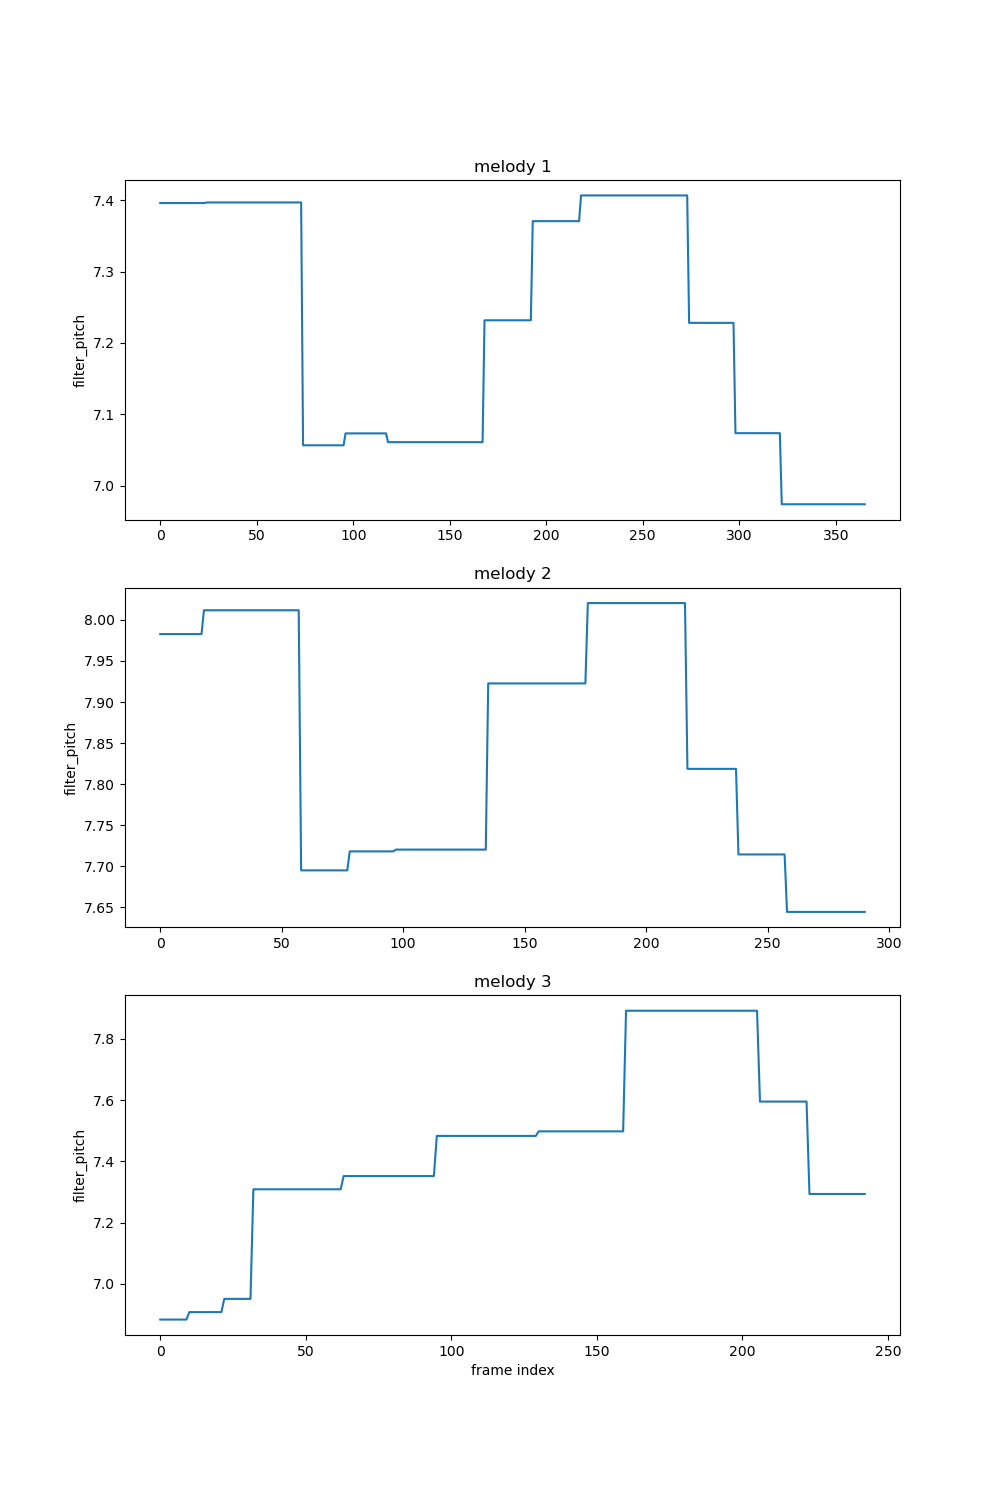
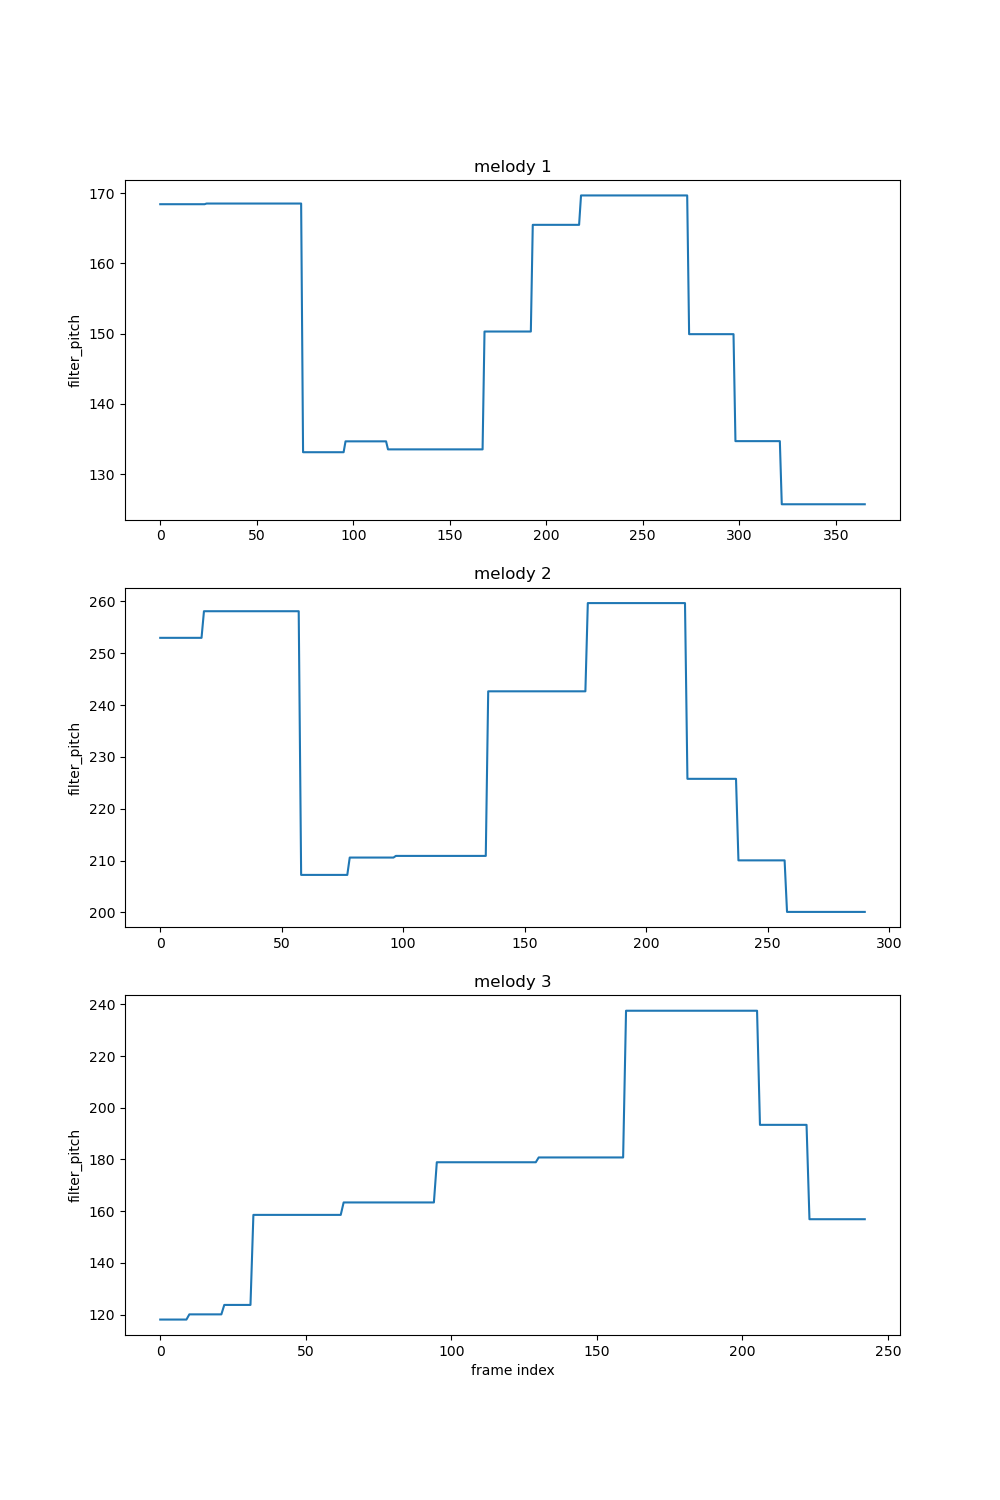
.

diff --git a/assignment2/main.py b/assignment2/main.py
@@ -2,7 +2,7 @@ from matplotlib import pyplot as plt
 import numpy as np
 from scipy.io import wavfile
 import GetMusicFeatures
-from Feature_Extractor import normalized_intensity, filter_pitch, semi_adjust
+from Feature_Extractor import normalized_intensity, filter_pitch, semi_adjust, analysis_note
 import os
 import simpleaudio as sa
 import wave
@@ -92,7 +92,7 @@ frequence3 = np.arange(0,frame_num3)
 
 # print(frIsequence1.shape,type(frIsequence1),'dimension of frIsequence')
 # print(frIsequence1[:,0:5],'print the first five frames')
-# ----------------------------------------------------
+# -------------------------------------------------------------
 
 # plot the pitch
 # \todo look at the frequency range 100–300 Hz especially
@@ -199,7 +199,7 @@ plt.ylabel('Normalized intensity')
 plt.title('melody 3')
 plt.savefig('figures/normalized intensity.png')
 plt.show()
-# ----------------------------------------------------
+# ---------------------------------------------------------------------------------------------data
 
 filter_pitch1, filter_pitch1_log = filter_pitch(frIsequence1)
 # print(filter_pitch1_log)
@@ -220,17 +220,17 @@ frequence3_temp = np.arange(0, voice_frame_num3)
 
 plt.figure(7, figsize=[10,15])
 plt.subplot(3, 1, 1)
-plt.plot(frequence1_temp, filter_pitch1_log)
+plt.plot(frequence1_temp, filter_pitch1)
 plt.ylabel('filter_pitch')
 plt.title('melody 1')
 
 plt.subplot(3, 1, 2)
-plt.plot(frequence2_temp, filter_pitch2_log)
+plt.plot(frequence2_temp, filter_pitch2)
 plt.ylabel('filter_pitch')
 plt.title('melody 2')
 
 plt.subplot(3, 1, 3)
-plt.plot(frequence3_temp, filter_pitch3_log)
+plt.plot(frequence3_temp, filter_pitch3)
 plt.xlabel('frame index')
 plt.ylabel('filter_pitch')
 plt.title('melody 3')
@@ -240,46 +240,19 @@ plt.show()
 #
 # analysis the semitones of melody1
 
-semi_tone_absolute1, semi_drag1 = semi_adjust(filter_pitch1)
-semi_tone_absolute2, semi_drag2 = semi_adjust(filter_pitch2)
-semi_tone_absolute3, semi_drag3 = semi_adjust(filter_pitch3)
-
-for i in range(len(semi_drag1)):
-    semi_drag1[i] = (semi_drag1[i] - np.min(np.array(semi_drag1)))/(np.max(np.array(semi_drag1) - np.min(np.array(semi_drag1))))
-for i in range(len(semi_drag2)):
-    semi_drag2[i] = (semi_drag2[i] - np.min(np.array(semi_drag2)))/(np.max(np.array(semi_drag2) - np.min(np.array(semi_drag2))))
-for i in range(len(semi_drag3)):
-    semi_drag3[i] = (semi_drag3[i] - np.min(np.array(semi_drag3)))/(np.max(np.array(semi_drag3) - np.min(np.array(semi_drag3))))
+semi_tone_absolute1, semi_normalized1 = semi_adjust(filter_pitch1)
+semi_tone_absolute2, semi_normalized2 = semi_adjust(filter_pitch2)
+semi_tone_absolute3, semi_normalized3 = semi_adjust(filter_pitch3)
 
 
 
-
-
-print(semi_drag1,'semitone1')
-print(semi_drag2,'semitone2')
-print(semi_drag3,'semitone3')
-
-plt.figure(8)
+plt.figure(8, figsize=[10,15])
 plt.subplot(3, 1, 1)
-plt.plot(frequence1_temp, semi_tone_absolute1)
+plt.plot(frequence1_temp, semi_normalized1)
 plt.subplot(3, 1, 2)
-plt.plot(frequence2_temp, semi_tone_absolute2)
+plt.plot(frequence2_temp, semi_normalized2)
 plt.subplot(3, 1, 3)
-plt.plot(frequence3_temp, semi_tone_absolute3)
-plt.xlabel('Voice_frame')
-plt.ylabel('semi_tone_absolute')
-plt.title('semi_tones')
-plt.savefig('figures/semitones_melody.png')
-plt.show()
-
-
-plt.figure(9)
-plt.subplot(3, 1, 1)
-plt.plot(frequence1_temp, semi_drag1)
-plt.subplot(3, 1, 2)
-plt.plot(frequence2_temp, semi_drag2)
-plt.subplot(3, 1, 3)
-plt.plot(frequence3_temp, semi_drag3)
+plt.plot(frequence3_temp, semi_normalized3)
 plt.xlabel('Voice_frame')
 plt.ylabel('semi_tone_drag')
 plt.title('semi_tones')
@@ -288,35 +261,67 @@ plt.show()
 
 # Finally feature -> semitones_normalized!!!! discrete feature
 frIsequence1 = GetMusicFeatures.GetMusicFeatures(data1, sample_rate1)
-filter_pitch1, _ = filter_pitch(frIsequence1)
+pitch_log1, intensity_nor1 = normalized_intensity(frIsequence1)
+filter_pitch1, filter_pitch1_log = filter_pitch(frIsequence1)
+semi_absolute1, semi_normalized1 = semi_adjust(filter_pitch1)
 
-semi_absolute1 , semi_drag1 = semi_adjust(filter_pitch1)
 
+voice_frame_num1 = len(filter_pitch1)
+frequence1_temp = np.arange(0, voice_frame_num1)
 
+notes = filter_pitch1
+note = []
+for i in notes:
+    _, _, _,note_temp = analysis_note(i)
+    note.append(note_temp)
+
+with open('notes.txt', 'w') as file:
+    for item in note:
+        file.write(f"{item}")
 
 # test if transposition invariant
 frIsequence1_trans = np.copy(frIsequence1)
 shift = 5
-for i in range(0, frame_num2):
+for i in range(0, frame_num1):
     # f2 = f1 * (2 ^ (1 / 12)) ^ n
-    frIsequence1_trans[0, i] = frIsequence1[0, i] * 2 ** (shift/12)
-filter_pitch1_trans, _ = filter_pitch(frIsequence1_trans)
-semi_trans1_absolute, semi_drag1_trans = semi_adjust(filter_pitch1_trans)
-# print(semi_trans1_absolute, '\n', 'absolute tone trans')
-# print(semi_drag1_trans, '\n', 'trans semi')
+    frIsequence1_trans[0, i] = frIsequence1[0, i] * 2**(shift/12)
 
-# test if volume invariant
+pitch1_trans = frIsequence1_trans[0, :]
 
+filter_pitch1_trans, filter_pitch1_trans_log = filter_pitch(frIsequence1_trans)
+semi_absolute1_trans, semi_normalized1_trans = semi_adjust(filter_pitch1_trans)
+
+voice_frame_num1_trans = len(filter_pitch1_trans)
+frequence1_temp_trans = np.arange(0, voice_frame_num1_trans)
+
+
+
+# draw figure
+plt.figure(figsize=[10,15])
+plt.plot(frequence1_temp, semi_normalized1)
+plt.plot(frequence1_temp_trans, semi_normalized1_trans)
+plt.legend(['original','transposition version'])
+plt.xlabel('frame index')
+plt.ylabel('features')
+plt.title('melody 1 and note transposition')
+plt.savefig('figures/features_transposition.png')
+plt.show()
+
+
+
+# test if volumn invariant
 frIsequence1_vol = GetMusicFeatures.GetMusicFeatures(1.5*data1, sample_rate1)
 filter_pitch1_vol, _ = filter_pitch(frIsequence1_vol)
 voice_frame_num1_vol = len(filter_pitch1_vol)
 frequence1_temp_vol = np.arange(0, voice_frame_num1_vol)
 semi_absolute1_vol , semi_drag1_vol = semi_adjust(filter_pitch1_vol)
 plt.figure(10)
-plt.plot(frequence1_temp, semi_drag1)
+plt.plot(frequence1_temp, semi_normalized1)
 plt.plot(frequence1_temp_vol, semi_drag1_vol)
+plt.legend(['original','volumn×1.5 version'])
 plt.xlabel('frame_num')
-plt.ylabel('semi_normalized')
+plt.ylabel('feature')
+plt.title('melody1 and volumn change')
 plt.savefig('figures/volumn_change.png')
 plt.show()
 

diff --git a/assignment2/test.py b/assignment2/test.py
@@ -3,12 +3,8 @@ import numpy as np
 from scipy.io import wavfile
 import GetMusicFeatures
 from Feature_Extractor import normalized_intensity, filter_pitch, semi_adjust, analysis_note
-import os
-import simpleaudio as sa
-import wave
-# #
-# #
-# # load data
+
+
 path1 = 'Songs/melody_1.wav'
 path2 = 'Songs/melody_2.wav'
 path3 = 'Songs/melody_3.wav'
@@ -32,7 +28,6 @@ pitch1 = frIsequence1[0, :]
 
 # test if transposition invariant
 frIsequence1_trans = np.copy(frIsequence1)
-frIsequence1_trans_try = np.copy(frIsequence1)
 shift = 5
 for i in range(0, frame_num1):
     # f2 = f1 * (2 ^ (1 / 12)) ^ n
@@ -45,17 +40,14 @@ pitch1_trans = frIsequence1_trans[0, :]
 pitch_log1, intensity_nor1 = normalized_intensity(frIsequence1)
 filter_pitch1, filter_pitch1_log = filter_pitch(frIsequence1)
 
-print(filter_pitch1, '\n', 'filter_pitch value')
-
 voice_frame_num1 = len(filter_pitch1)
 frequence1_temp = np.arange(0, voice_frame_num1)
 
 semi_absolute1, semi_drag1 = semi_adjust(filter_pitch1)
-print(semi_absolute1, '\n', 'absolute tone original')
 notes = filter_pitch1
 note = []
 for i in notes:
-    _,_,_,note_temp = analysis_note(i)
+    _, _, _,note_temp = analysis_note(i)
     note.append(note_temp)
 
 with open('notes.txt', 'w') as file:
@@ -70,35 +62,6 @@ semi_absolute1_trans, semi_drag1_trans = semi_adjust(filter_pitch1_trans)
 
 voice_frame_num1_trans = len(filter_pitch1_trans)
 frequence1_temp_trans = np.arange(0, voice_frame_num1_trans)
-
-plt.figure(figsize=[10,15])
-plt.plot(frequence1_temp, filter_pitch1)
-plt.plot(frequence1_temp_trans, filter_pitch1_trans)
-plt.xlabel('frame number')
-plt.ylabel('filter_pitch')
-plt.title('melody 1 and trans')
-plt.savefig('figures/filter_pitch_test.png')
-plt.show()
-#
-
-plt.figure(figsize=[10,15])
-plt.plot(frequence1_temp, filter_pitch1_log)
-plt.plot(frequence1_temp_trans, filter_pitch1_trans_log)
-plt.xlabel('frame number')
-plt.ylabel('filter_pitch_log')
-plt.title('melody 1 and trans')
-plt.savefig('figures/filter_pitch_log_test.png')
-plt.show()
-#
-
-plt.figure(figsize=[10,15])
-plt.plot(frequence1_temp, semi_absolute1)
-plt.plot(frequence1_temp, semi_absolute1_trans)
-plt.xlabel('frame index')
-plt.ylabel('semi-drag')
-plt.title('melody 1 and trans')
-plt.savefig('figures/semitones_absolute_test.png')
-plt.show()
 
 
 plt.figure(figsize=[10,15])

diff --git a/assignment2/Feature_Extractor.py b/assignment2/Feature_Extractor.py
@@ -1,7 +1,4 @@
-import GetMusicFeatures
 import numpy as np
-from matplotlib import pyplot as plt
-import math
 import statistics
 from collections import Counter
 
@@ -155,10 +152,15 @@ def semi_adjust(filter_pitch):
             if min_element == semi_tone_absolute[i] and count_dict[min_element] < threshold:
                 semi_tone_absolute[i] = max_element
 
-    mid = np.median(semi_tone_absolute)
-    semi_drag = semi_tone_absolute - mid
+    semi_normalized = []
+    for i in range(len(semi_tone_absolute)):
+        normalized_value = (semi_tone_absolute[i] - np.min(np.array(semi_tone_absolute))) / (np.max(np.array(semi_tone_absolute) - np.min(np.array(semi_tone_absolute))))
+        semi_normalized.append(normalized_value)
 
-    return semi_tone_absolute, semi_drag
+    semi_normalized = [i*120 for i in semi_normalized]
+    semi_normalized = [round(i) for i in semi_normalized]
+
+    return semi_tone_absolute, semi_normalized
 
 
 
